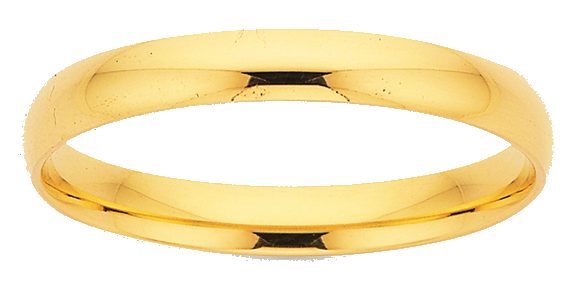
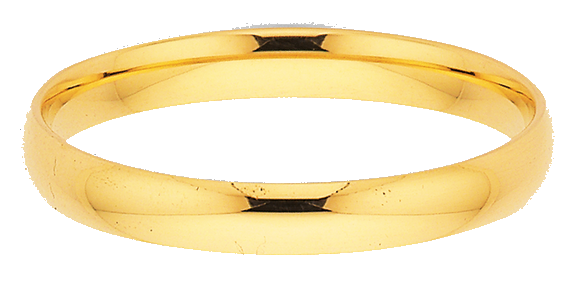
made adjustments to timer to display while in safe screen and added glow to ring inside safe

Changed region(s): [[0.0312, 0.0845, 0.9688, 0.9296]]

diff --git a/src/main/java/nz/ac/auckland/se206/controllers/OpenSafeController.java b/src/main/java/nz/ac/auckland/se206/controllers/OpenSafeController.java
@@ -1,23 +1,49 @@
 package nz.ac.auckland.se206.controllers;
 
 import java.io.IOException;
+import javafx.animation.AnimationTimer;
 import javafx.fxml.FXML;
+import javafx.scene.control.Label;
+import javafx.scene.image.ImageView;
 import javafx.scene.input.MouseEvent;
 import javafx.scene.layout.AnchorPane;
 import javafx.scene.shape.Rectangle;
 import nz.ac.auckland.apiproxy.exceptions.ApiProxyException;
 import nz.ac.auckland.se206.GameStateContext;
+import nz.ac.auckland.se206.TimerManager;
 
 public class OpenSafeController {
   private static GameStateContext context = new GameStateContext();
 
   @FXML private AnchorPane openSafePane;
   @FXML private Rectangle rectExitOpenSafe;
+  @FXML private Label lblTimer;
+
+  private TimerManager timerManager;
 
   @FXML
   public void initialize() throws ApiProxyException {
     // Any required initialization code can be placed here
     hideOpenSafePane(); // Hide wrench pane initially
+    // Get the instance of TimerManager
+    timerManager = TimerManager.getInstance(context);
+    startTimer();
+  }
+
+  /** Starts the timer and continuously updates the timer label. */
+  private void startTimer() {
+    // Start the shared TimerManager
+    timerManager.start();
+
+    // Update the label every frame with the formatted time
+    AnimationTimer timerUpdater =
+        new AnimationTimer() {
+          @Override
+          public void handle(long now) {
+            lblTimer.setText(timerManager.getTimeFormatted());
+          }
+        };
+    timerUpdater.start();
   }
 
   @FXML
@@ -32,5 +58,41 @@ public class OpenSafeController {
 
   public void hideOpenSafePane() {
     openSafePane.setVisible(false);
+  }
+
+  /**
+   * Handles mouse hover exiting on rectangles representing button for map navigation.
+   *
+   * @param event the mouse event triggered by clicking a rectangle
+   * @throws IOException if there is an I/O error
+   */
+  @FXML
+  private void handleImageEnter(MouseEvent event) throws IOException {
+    ImageView hoveredImage = (ImageView) event.getSource();
+    hoveredImage.setOpacity(1.0);
+  }
+
+  /**
+   * Handles mouse hover exiting on rectangles representing button for map navigation.
+   *
+   * @param event the mouse event triggered by clicking a rectangle
+   * @throws IOException if there is an I/O error
+   */
+  @FXML
+  private void handleImageExit(MouseEvent event) throws IOException {
+    ImageView hoveredImage = (ImageView) event.getSource();
+    hoveredImage.setOpacity(0.0);
+  }
+
+  /**
+   * Handles mouse clicks on images representing objects in the room.
+   *
+   * @param event the mouse event triggered by clicking an image
+   * @throws IOException if there is an I/O error
+   */
+  @FXML
+  private void handleImageClick(MouseEvent event) throws IOException {
+    ImageView clickedImage = (ImageView) event.getSource();
+    context.handleImageClick(event, clickedImage.getId());
   }
 }

diff --git a/src/main/java/nz/ac/auckland/se206/controllers/SafeController.java b/src/main/java/nz/ac/auckland/se206/controllers/SafeController.java
@@ -1,6 +1,7 @@
 package nz.ac.auckland.se206.controllers;
 
 import java.io.IOException;
+import javafx.animation.AnimationTimer;
 import javafx.event.ActionEvent;
 import javafx.fxml.FXML;
 import javafx.scene.control.Button;
@@ -12,6 +13,7 @@ import javafx.scene.shape.Rectangle;
 import nz.ac.auckland.apiproxy.exceptions.ApiProxyException;
 import nz.ac.auckland.se206.App;
 import nz.ac.auckland.se206.GameStateContext;
+import nz.ac.auckland.se206.TimerManager;
 
 public class SafeController {
   private static GameStateContext context = new GameStateContext();
@@ -29,6 +31,7 @@ public class SafeController {
   @FXML private Button button8;
   @FXML private Button button9;
   @FXML private Button button0;
+  @FXML private Label lblTimer;
 
   // Correct combination to open the safe
   private final String correctCode = "1234";
@@ -36,10 +39,31 @@ public class SafeController {
   // StringBuilder to hold entered digits
   private StringBuilder enteredCode = new StringBuilder();
 
+  private TimerManager timerManager;
+
   @FXML
   public void initialize() throws ApiProxyException {
     // Any required initialization code can be placed here
     hideSafePane(); // Hide chat box initially
+    // Get the instance of TimerManager
+    timerManager = TimerManager.getInstance(context);
+    startTimer();
+  }
+
+  /** Starts the timer and continuously updates the timer label. */
+  private void startTimer() {
+    // Start the shared TimerManager
+    timerManager.start();
+
+    // Update the label every frame with the formatted time
+    AnimationTimer timerUpdater =
+        new AnimationTimer() {
+          @Override
+          public void handle(long now) {
+            lblTimer.setText(timerManager.getTimeFormatted());
+          }
+        };
+    timerUpdater.start();
   }
 
   // Handle button presses

diff --git a/src/main/java/nz/ac/auckland/se206/states/GameStarted.java b/src/main/java/nz/ac/auckland/se206/states/GameStarted.java
@@ -142,6 +142,9 @@ public class GameStarted implements GameState {
         App.openSafe(event);
         System.out.println("Safe opened");
         return;
+      case "imageRingGlow":
+        App.openSafeRing(event);
+        return;
     }
   }
 }
